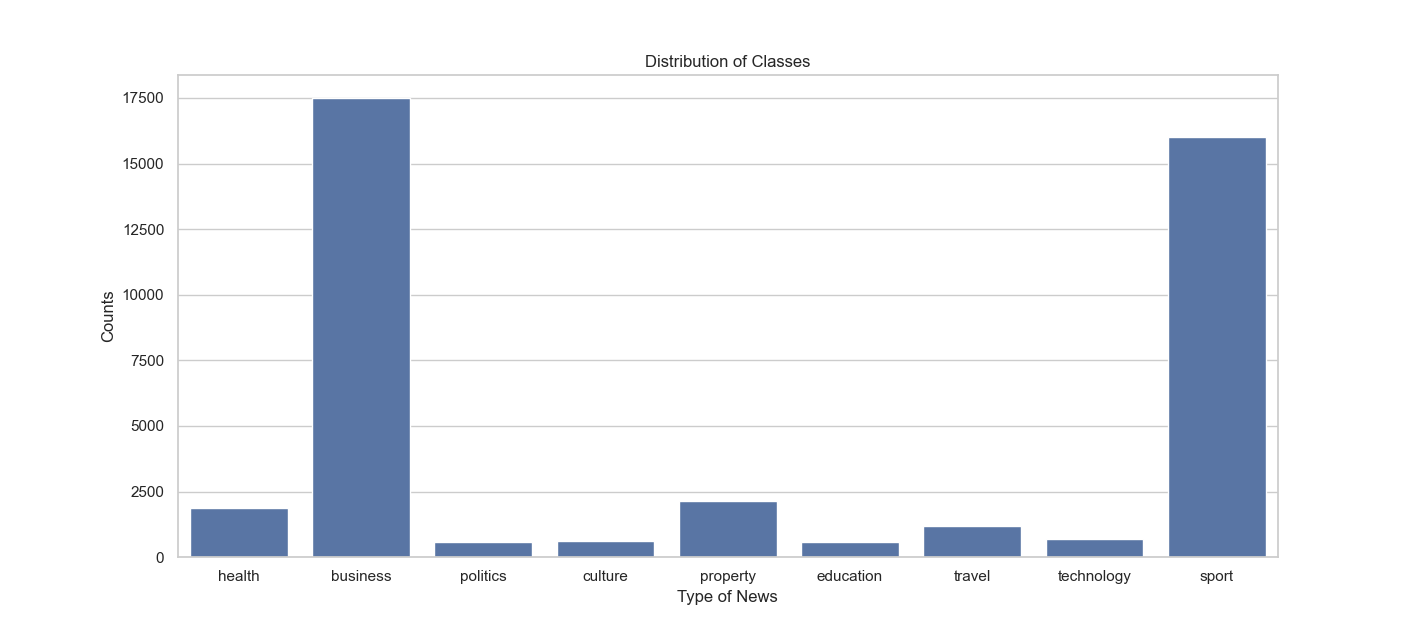
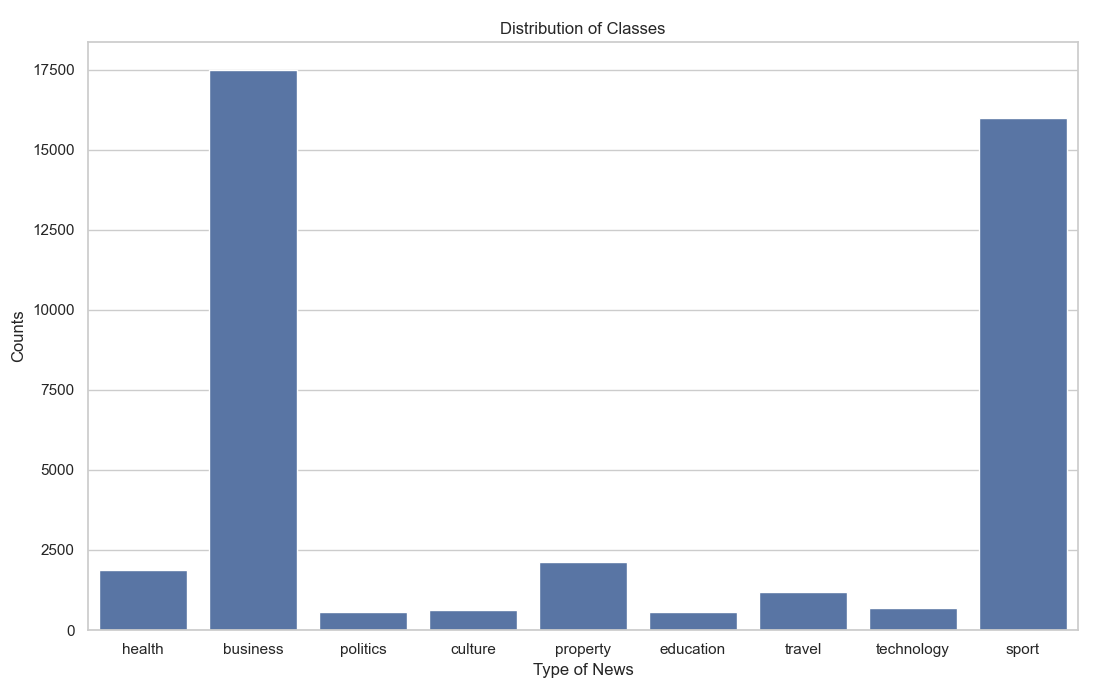
Update photo

diff --git a/FormGenerator.py b/FormGenerator.py
@@ -1,6 +1,22 @@
 import matplotlib.pyplot as plt
 import seaborn as sns
 
+class_counts = [1888, 17497, 565, 623, 2134, 565, 1184, 693, 16004]
+class_labels = ['health', 'business', 'politics', 'culture', 'property', 'education', 'travel', 'technology', 'sport']
+
+sns.set(style='whitegrid')
+
+plt.figure(figsize=(11, 7))
+plt.subplots_adjust(bottom=0.1, top=0.94, left=0.08, right=0.98)
+sns.barplot(x=class_labels, y=class_counts)
+
+plt.title('Distribution of Classes')
+plt.xlabel('Type of News')
+plt.ylabel('Counts')
+
+plt.show()
+
+exit()
 
 categories = ['business', 'culture', 'education', 'health', 'politics', 'property', 'sport', 'technology', 'travel']
 precisions = [0.90, 0.90, 0.88, 0.83, 0.89, 0.78, 0.99, 0.86, 0.64]
@@ -25,25 +41,5 @@ ax.legend()
 plt.subplots_adjust(bottom=0.17, top=0.94, left=0.06, right=0.99)
 
 plt.show()
-exit()
 
 
-
-# Sample data
-class_counts = [1888, 17497, 565, 623, 2134, 565, 1184, 693, 16004]
-class_labels = ['health', 'business', 'politics', 'culture', 'property', 'education', 'travel', 'technology', 'sport']
-
-# Set the style
-sns.set(style='whitegrid')
-
-# Create a bar plot
-plt.figure(figsize=(10, 6))
-sns.barplot(x=class_labels, y=class_counts)
-
-# Adding title and labels
-plt.title('Distribution of Classes')
-plt.xlabel('Type of News')
-plt.ylabel('Counts')
-
-# Show the plot
-plt.show()
